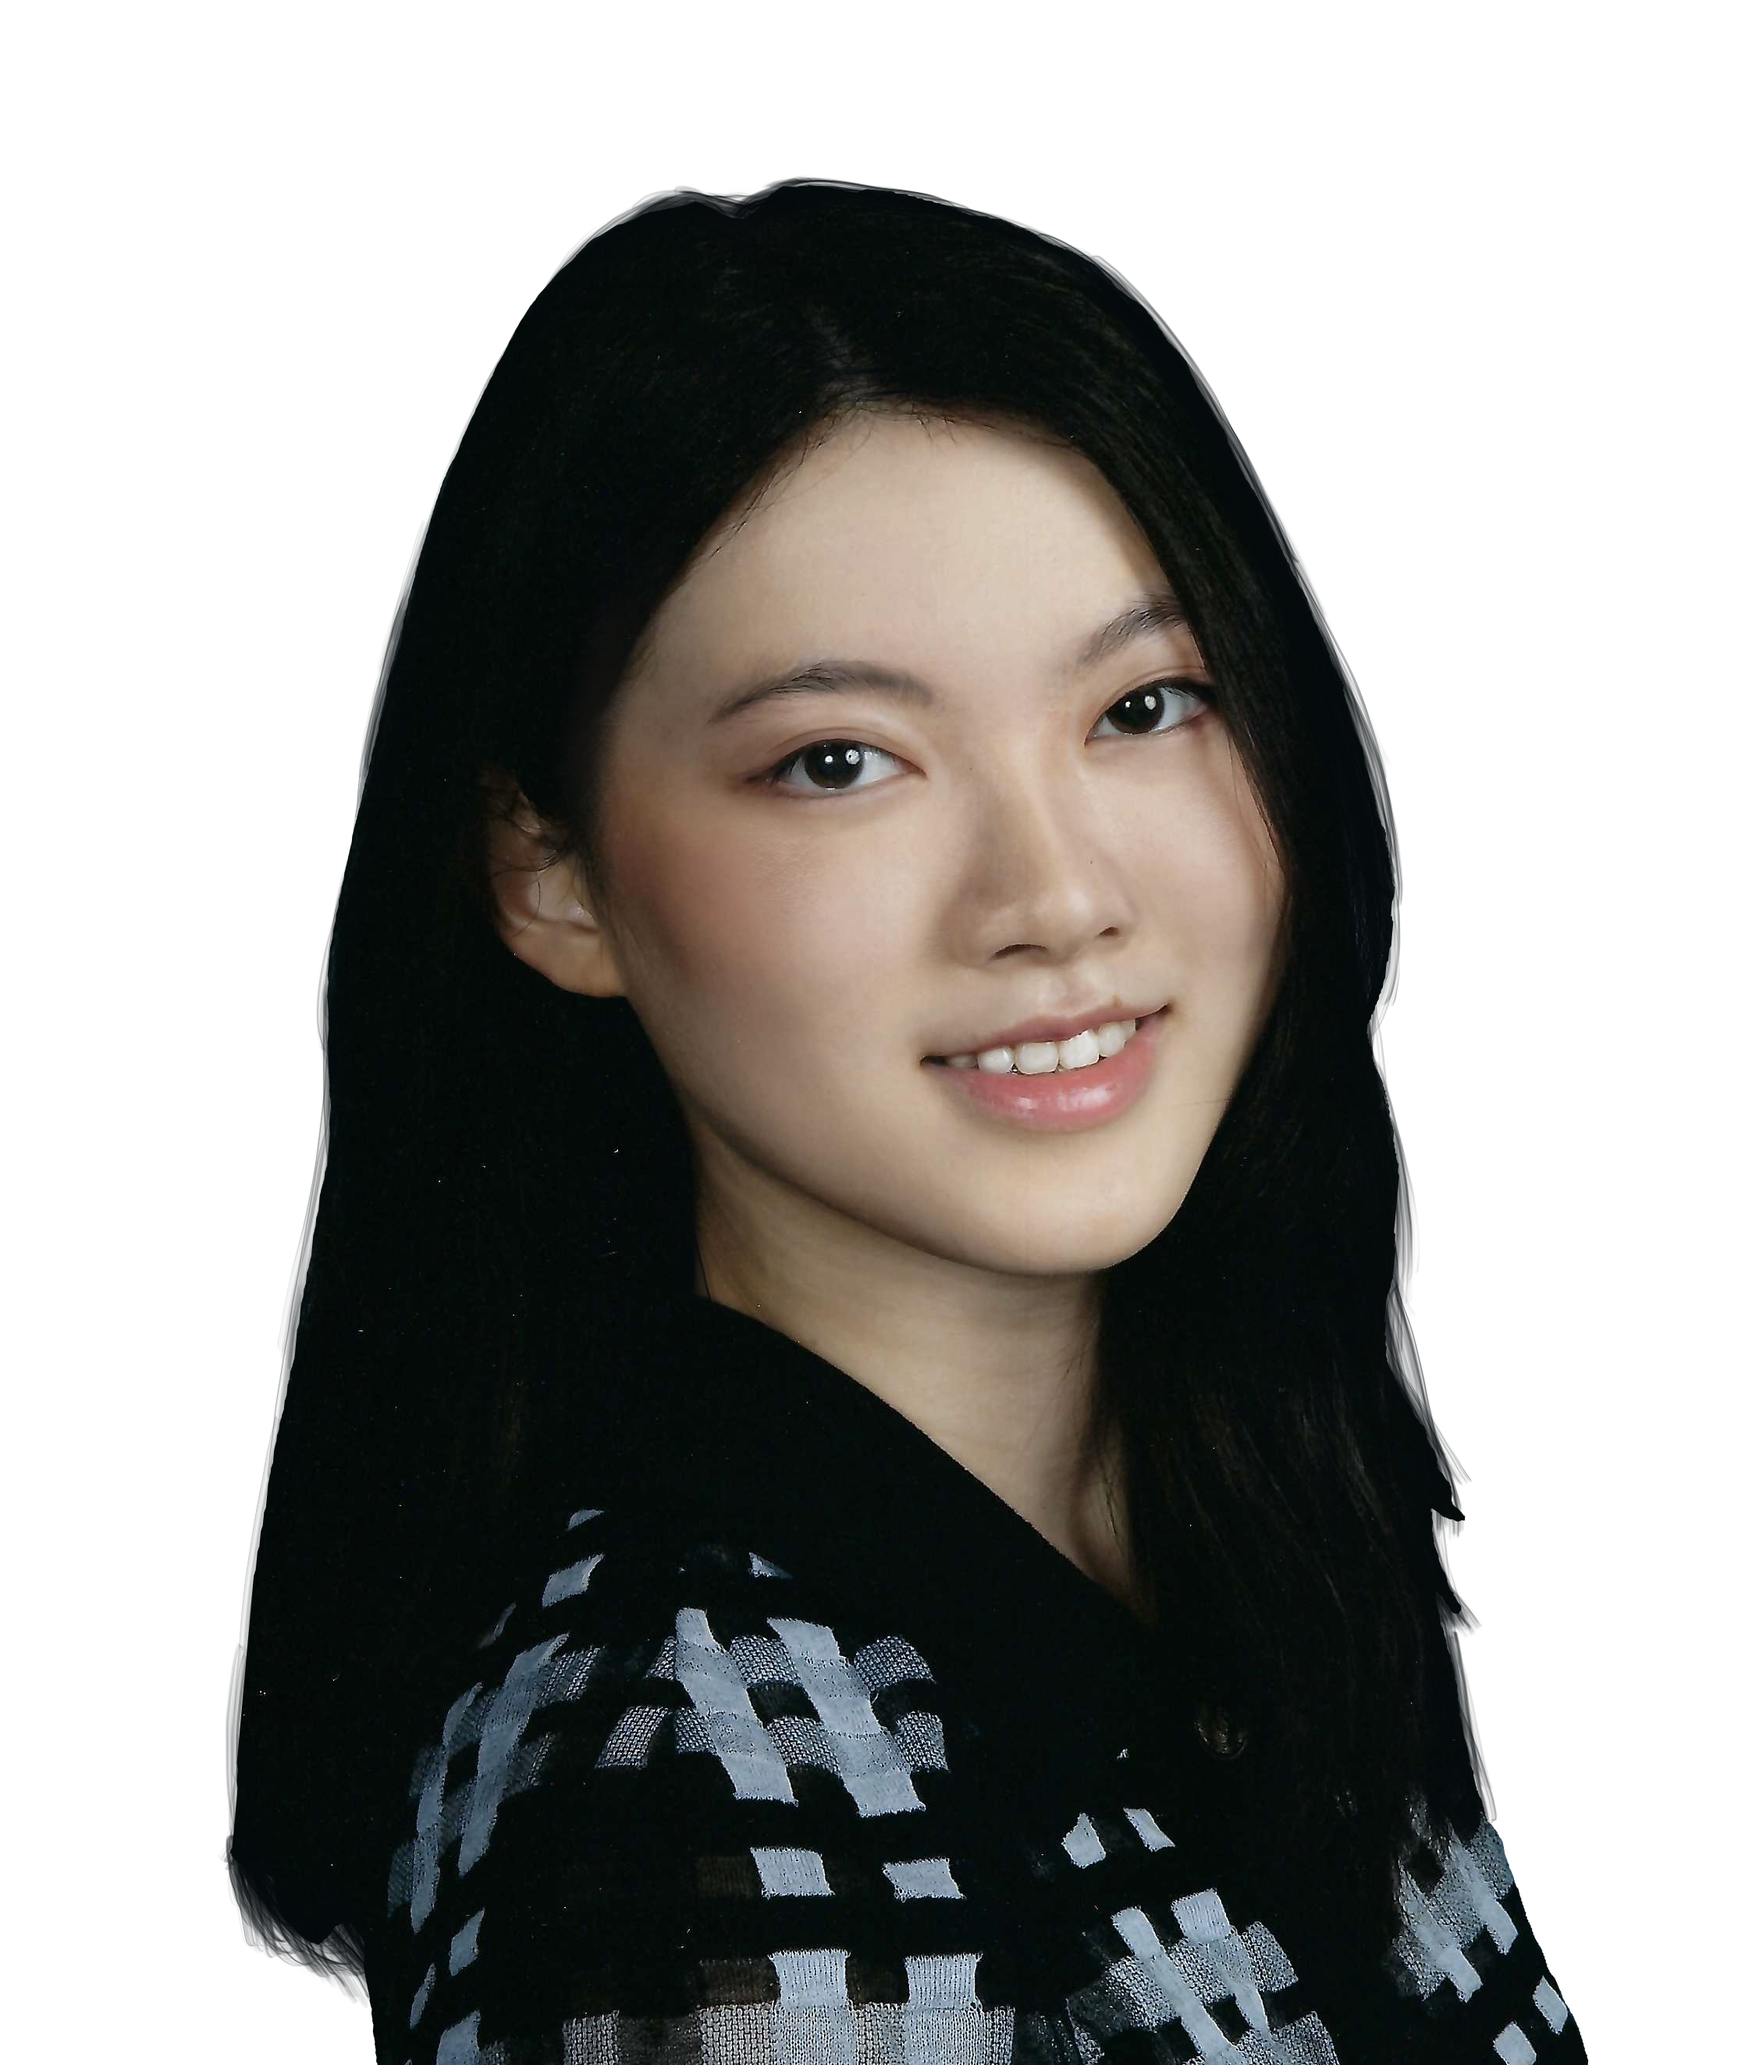
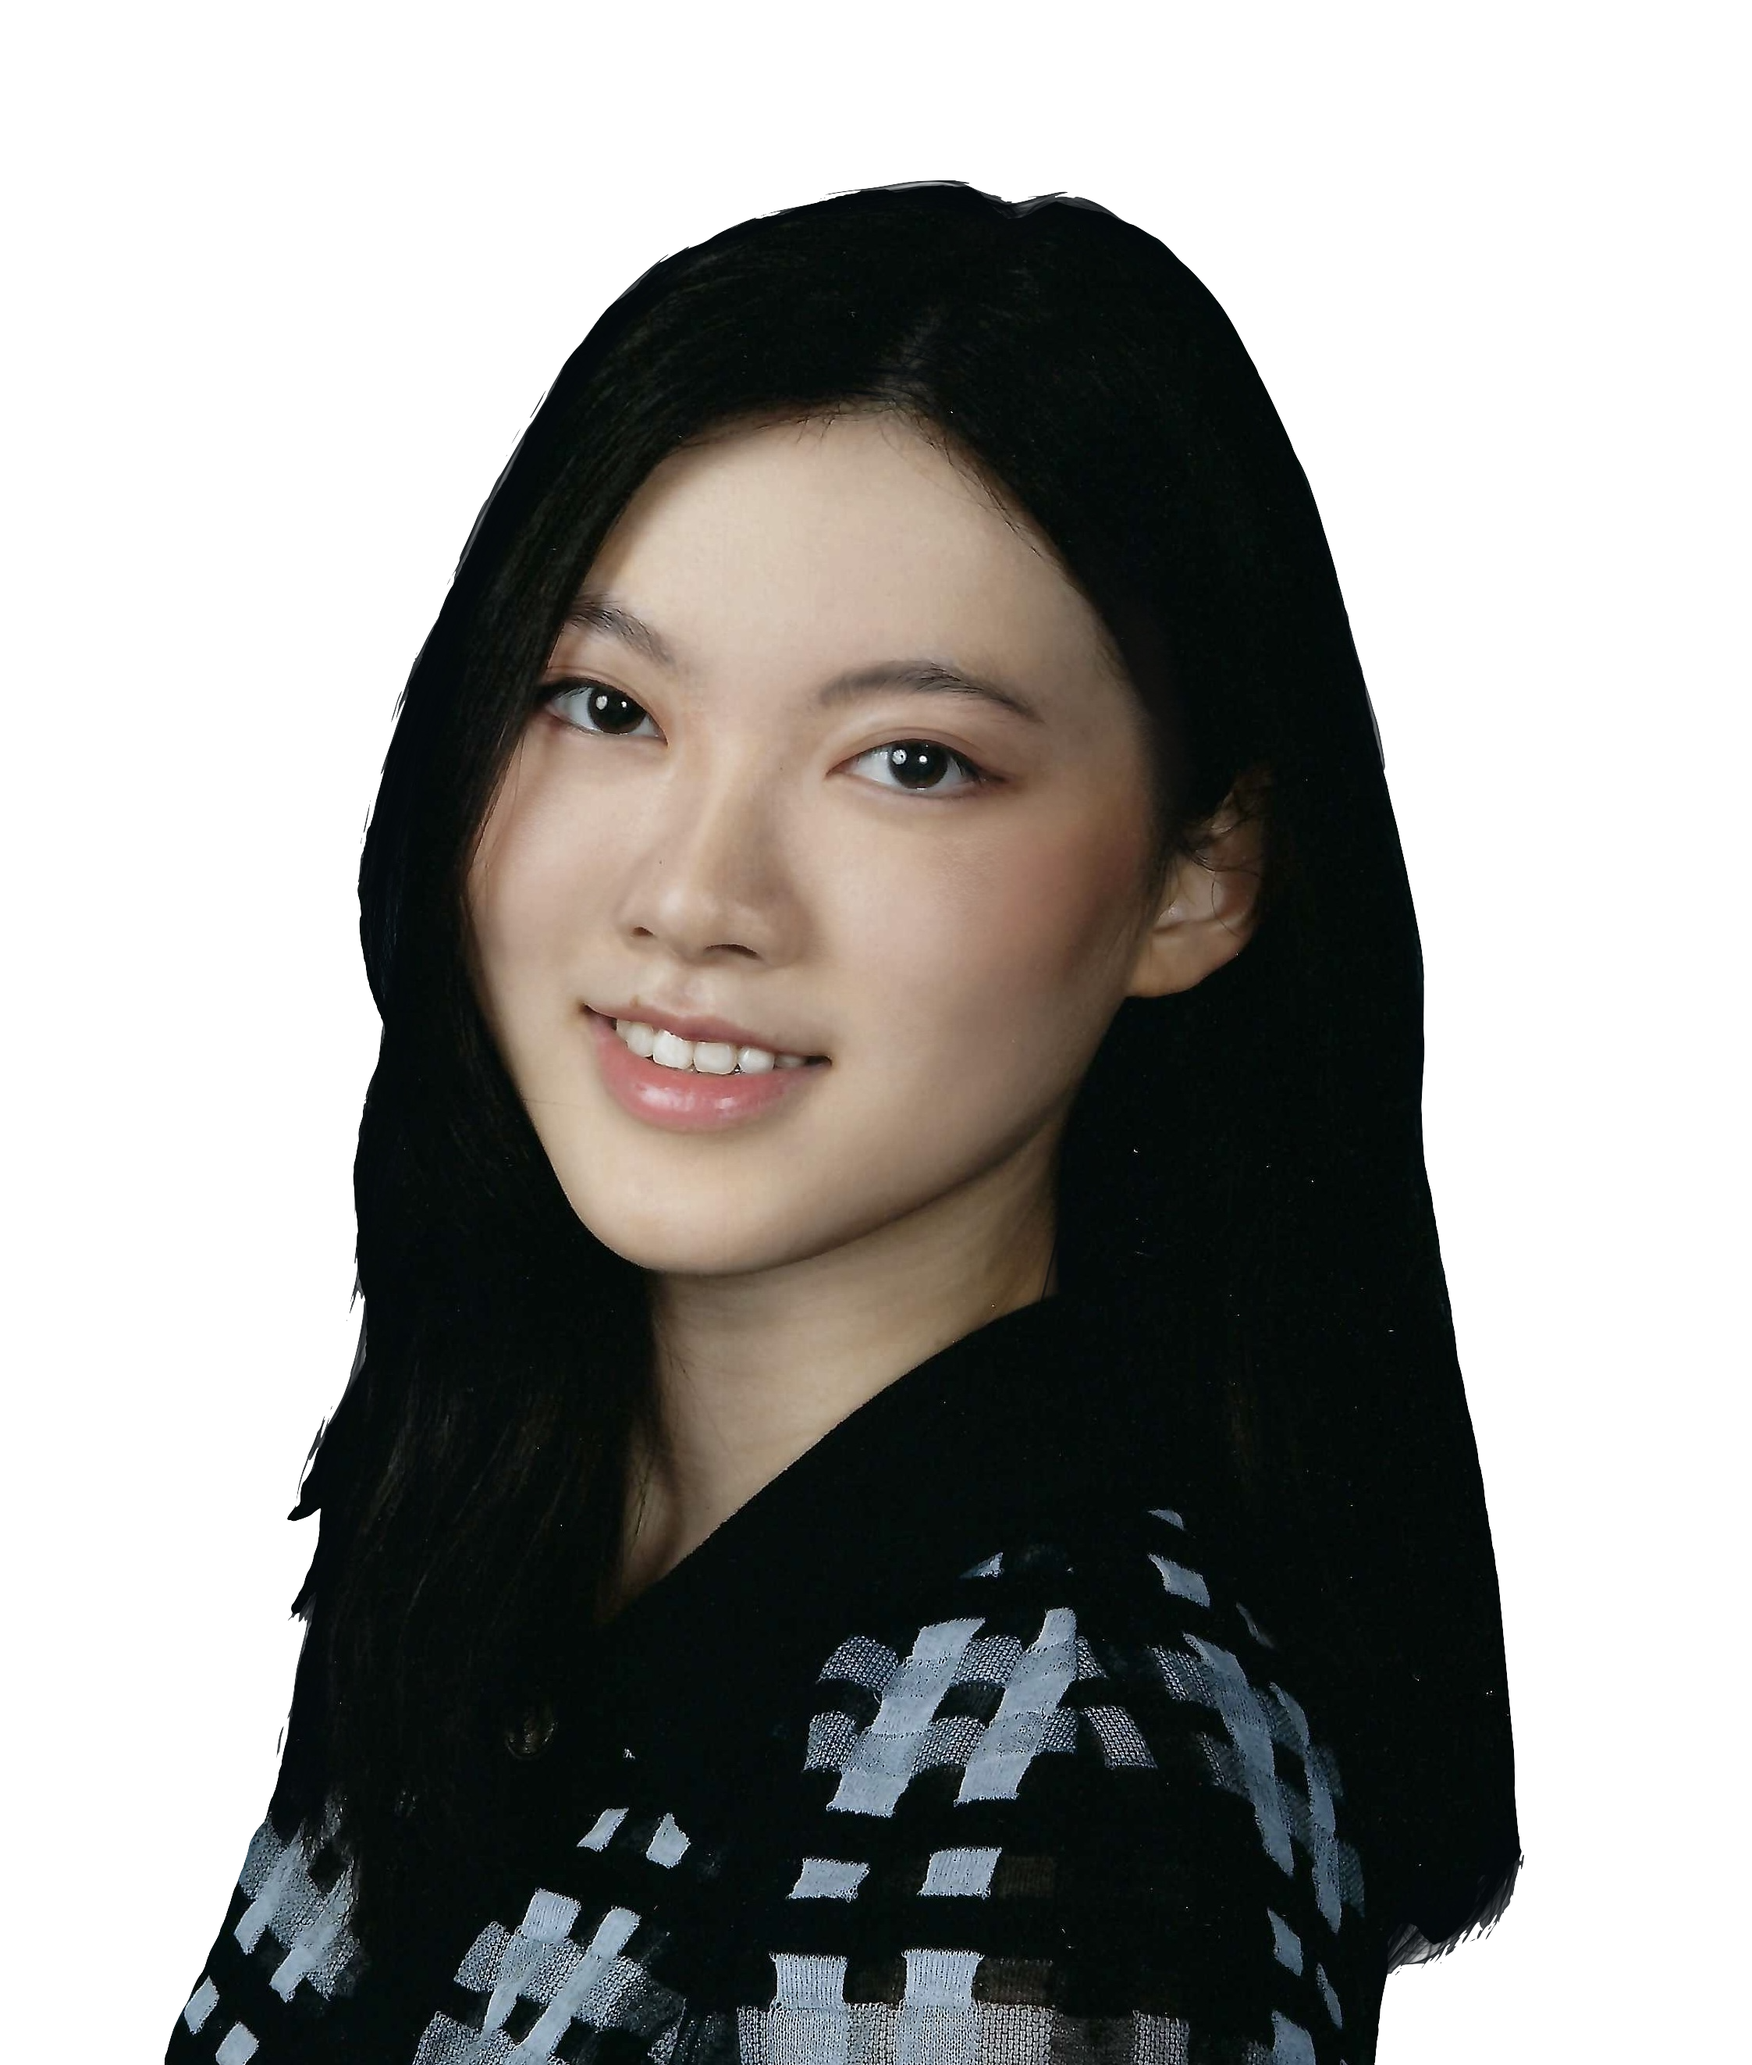
home-page

Changed region(s): [[0.0935, 0.062, 0.9042, 1.0]]

diff --git a/index.html b/index.html
@@ -1,12 +1,16 @@
   <!DOCTYPE html>
   <html lang="en">
   <head>
-    <link rel="preconnect" href="https://fonts.googleapis.com">
-    <link rel="preconnect" href="https://fonts.gstatic.com" crossorigin>
-    <link href="https://fonts.googleapis.com/css2?family=Figtree&display=swap" rel="stylesheet">
+    <!-- meta -->
     <meta charset="UTF-8">
     <meta http-equiv="X-UA-Compatible" content="IE=edge">
     <meta name="viewport" content="width=device-width, initial-scale=1.0">
+    <meta name="description" content="An official portfolio website for Emily Xia">
+    <meta name="author" content="Emily Xia">
+    <!-- Google Font CSS -->
+    <link rel="preconnect" href="https://fonts.googleapis.com">
+    <link rel="preconnect" href="https://fonts.gstatic.com" crossorigin>
+    <link href="https://fonts.googleapis.com/css2?family=Figtree&display=swap" rel="stylesheet">
     <title>Personal Portfolio</title>
     <link rel="stylesheet" href="styles.css">
   </head>
@@ -41,15 +45,21 @@
     <div class="main">
       <div class="main__container"></div>
         <div class="main__content">
-          <h1>Hello, I am <span>Emily</span> Xia</h1>
-          <p>Welcome to my official portfolio website
-            <br> AKA a coding project to self-learn Javascript, HTML/CSS, and display my work.
+          <h1>Hi, I'm <span>Emily</span> Xia</h1>
+          <p>Welcome to my official portfolio website:
+            <br> A coding project to learn Javascript, HTML/CSS, and display my work.
           </p>
+          <a href="https://www.linkedin.com/in/emilyxia-/">
+            <img src="https://img.shields.io/badge/LinkedIn-blue?style=for-the-badge&logo=linkedin&logoColor=white" class="linkedIn"/>
+          </a>
+          <a href="https://github.com/emiilyxiia">
+            <img src="https://img.shields.io/badge/-Github-black?logo=github&logoColor=white&style=for-the-badge&logoWidth=20" class="github"/>
+          </a>
         </div>
     </div>
     <div class="images">
-      <img src="images/Emily.PNG" class = "emily">
-      <img src="images/shape.png" class = "shape">
+      <img src="images/Emily.PNG" id = "emily">
+      <img src="images/shape.png" id = "shape">
     </div>
     <script src="app.js"></script>
     <h1></h1>

diff --git a/styles.css b/styles.css
@@ -66,7 +66,7 @@
 }
 
 .navbar__links {
-  color: #594a4e;
+  color: #33272a;
   display: flex;
   align-items: center;
   justify-content: center;
@@ -85,7 +85,7 @@
 
 .button {
   background: #c3f0ca;
-  color: #33272a;
+  color: #594a4e;
   display: flex;
   align-items: center;
   justify-content: center;
@@ -93,7 +93,7 @@
   padding: 10px 20px;
   height: 100%;
   width: 100%;
-  border: solid #33272a;
+  border: solid #594a4e;
   outline: none;
   border-radius: 4px;
 
@@ -141,13 +141,15 @@
     }
 
     .navbar__menu.active {
-      background: #594a4e;
+      background: #faeee7;
       top: 100%;
       opacity: 1;
       transition: all 0.5s ease;
       z-index: 99;
       height: 46vh;
       font-size: 1.6rem;
+      border: solid #33272a;
+      border-radius: 4px
     }
 
     #navbar__logo {
@@ -244,21 +246,42 @@
   }
 
   .main__content {
-    font-size: 2rem;
+    font-size: 3rem;
     color: #33272a;
     margin-bottom: 20px;
+    align-items: center;
+    width: 100%;
+    max-width: 1300px;
+    margin: 0 auto;
+    padding: 0 50px;
+    padding-right: 350px;
+}
+
+  .main__content p {
+    display: flex;
+    text-decoration: none;
+    height: 100%;
+    font-size: 1.2rem;
+    line-height: 32px;
+    margin: 5% 0% 1%;
+    color: #594a4e;
+
   }
 
   span {
     color: #ff8ba7;
   }
 
+  a, u {
+    text-decoration: none;
+  }
+
   .images {
-    width: 45%;
-    height: 80%;
+    width: 40%;
+    height: 75%;
     position: absolute;
     bottom: 0;
-    right: 100px;
+    right: 5px;
   }
 
   .images img {
